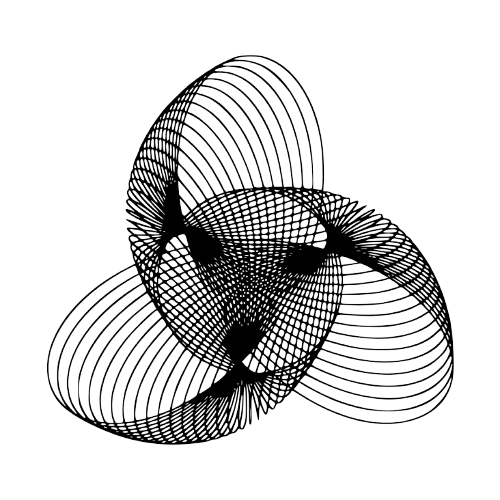
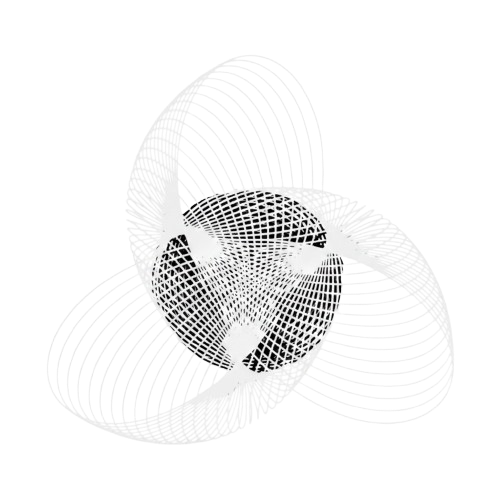
Update website changes

Changed region(s): [[0.09, 0.09, 0.93, 0.9]]

diff --git a/src/sections/Contact.tsx b/src/sections/Contact.tsx
@@ -1,13 +1,21 @@
 import { useEffect, useRef, useState } from 'react';
 import gsap from 'gsap';
 import { ScrollTrigger } from 'gsap/ScrollTrigger';
+import emailjs from '@emailjs/browser';
 
 gsap.registerPlugin(ScrollTrigger);
 
+type Status = 'idle' | 'sending' | 'success' | 'error';
+
 export function Contact() {
   const sectionRef = useRef<HTMLElement>(null);
+  const formRef = useRef<HTMLFormElement>(null);
   const [formData, setFormData] = useState({ name: '', email: '', phone: '', message: '' });
-  const [submitted, setSubmitted] = useState(false);
+  const [submittedName, setSubmittedName] = useState('');
+  const [status, setStatus] = useState<Status>('idle');
+  const [errorMsg, setErrorMsg] = useState('');
+
+  const firstName = (submittedName.trim().split(/\s+/)[0] || '').toLowerCase();
 
   useEffect(() => {
     const section = sectionRef.current;
@@ -23,18 +31,151 @@ export function Contact() {
     return () => ctx.revert();
   }, []);
 
-  const handleSubmit = (e: React.FormEvent) => {
+  const handleSubmit = async (e: React.FormEvent) => {
     e.preventDefault();
-    setSubmitted(true);
-    setTimeout(() => { setFormData({ name: '', email: '', phone: '', message: '' }); setSubmitted(false); }, 3000);
+    if (status === 'sending') return;
+
+    const serviceId = import.meta.env.VITE_EMAILJS_SERVICE_ID as string | undefined;
+    const templateId = import.meta.env.VITE_EMAILJS_TEMPLATE_ID as string | undefined;
+    const publicKey = import.meta.env.VITE_EMAILJS_PUBLIC_KEY as string | undefined;
+
+    if (!serviceId || !templateId || !publicKey || !formRef.current) {
+      setStatus('error');
+      setErrorMsg('Configuration manquante. Veuillez réessayer plus tard.');
+      return;
+    }
+
+    setStatus('sending');
+    setErrorMsg('');
+
+    try {
+      await emailjs.sendForm(serviceId, templateId, formRef.current, { publicKey });
+      setSubmittedName(formData.name);
+      setStatus('success');
+      setFormData({ name: '', email: '', phone: '', message: '' });
+    } catch (err) {
+      setStatus('error');
+      setErrorMsg(
+        err instanceof Error && err.message
+          ? err.message
+          : "Une erreur est survenue. Veuillez réessayer ou nous contacter directement."
+      );
+    }
   };
 
   const handleChange = (e: React.ChangeEvent<HTMLInputElement | HTMLTextAreaElement>) => {
     setFormData(p => ({ ...p, [e.target.name]: e.target.value }));
+    if (status === 'error') setStatus('idle');
+  };
+
+  const resetForm = () => {
+    setSubmittedName('');
+    setStatus('idle');
+    setErrorMsg('');
   };
 
   return (
     <section ref={sectionRef} id="contact" className="relative py-20 md:py-32" style={{ backgroundColor: '#111111' }}>
+      <style>{`
+        .contact-success {
+          display: flex;
+          flex-direction: column;
+          align-items: flex-start;
+          gap: 24px;
+          padding: 8px 0;
+          animation: contact-success-in 600ms cubic-bezier(0.22, 1, 0.36, 1) both;
+        }
+        @keyframes contact-success-in {
+          from { opacity: 0; transform: translateY(16px); }
+          to   { opacity: 1; transform: translateY(0); }
+        }
+
+        .contact-success-icon {
+          width: 72px;
+          height: 72px;
+          display: block;
+        }
+        .contact-success-icon circle {
+          stroke-dasharray: 240;
+          stroke-dashoffset: 240;
+          animation: contact-success-circle 700ms cubic-bezier(0.22, 1, 0.36, 1) 100ms forwards;
+        }
+        .contact-success-icon path {
+          stroke-dasharray: 60;
+          stroke-dashoffset: 60;
+          animation: contact-success-check 500ms cubic-bezier(0.22, 1, 0.36, 1) 700ms forwards;
+        }
+        @keyframes contact-success-circle {
+          to { stroke-dashoffset: 0; }
+        }
+        @keyframes contact-success-check {
+          to { stroke-dashoffset: 0; }
+        }
+
+        .contact-success-title {
+          font-size: clamp(2.5rem, 5vw, 4rem);
+          line-height: 1;
+          font-weight: 400;
+          color: #fff;
+          font-family: Georgia, 'Times New Roman', 'Cormorant Garamond', serif;
+          margin: 0;
+          letter-spacing: -0.01em;
+        }
+        .contact-success-name {
+          font-style: italic;
+          color: #C4591A;
+        }
+
+        .contact-success-body {
+          font-size: 1rem;
+          line-height: 1.6;
+          color: rgba(255, 255, 255, 0.7);
+          max-width: 440px;
+          margin: 0;
+        }
+
+        .contact-success-link {
+          background: transparent;
+          border: 0;
+          padding: 0;
+          margin-top: 8px;
+          font-size: 0.875rem;
+          font-weight: 500;
+          letter-spacing: 0.18em;
+          text-transform: uppercase;
+          color: #C4591A;
+          cursor: pointer;
+          position: relative;
+          line-height: 1.4;
+        }
+        .contact-success-link::after {
+          content: '';
+          position: absolute;
+          left: 0;
+          right: 0;
+          bottom: -4px;
+          height: 1px;
+          background: currentColor;
+          opacity: 0.5;
+          transition: opacity 200ms ease;
+        }
+        .contact-success-link:hover::after {
+          opacity: 1;
+        }
+        .contact-success-link:focus-visible {
+          outline: 2px solid #C4591A;
+          outline-offset: 4px;
+          border-radius: 2px;
+        }
+
+        @media (prefers-reduced-motion: reduce) {
+          .contact-success,
+          .contact-success-icon circle,
+          .contact-success-icon path { animation: none; }
+          .contact-success-icon circle { stroke-dashoffset: 0; }
+          .contact-success-icon path { stroke-dashoffset: 0; }
+        }
+      `}</style>
       <div className="container-site">
         {/* Giant title */}
         <div className="contact-title mb-16 md:mb-24 overflow-hidden">
@@ -44,8 +185,52 @@ export function Contact() {
         </div>
 
         <div className="grid grid-cols-1 lg:grid-cols-2 gap-16 lg:gap-24">
-          {/* Form */}
-          <form className="contact-form space-y-6" onSubmit={handleSubmit}>
+          {/* Form / Success card */}
+          {status === 'success' ? (
+            <div className="contact-form contact-success" role="status" aria-live="polite">
+              <svg
+                className="contact-success-icon"
+                viewBox="0 0 80 80"
+                xmlns="http://www.w3.org/2000/svg"
+                aria-hidden="true"
+              >
+                <circle cx="40" cy="40" r="38" fill="none" stroke="#C4591A" strokeWidth="1" />
+                <path
+                  d="M28 41 L37 50 L54 32"
+                  fill="none"
+                  stroke="#C4591A"
+                  strokeWidth="2"
+                  strokeLinecap="round"
+                  strokeLinejoin="round"
+                />
+              </svg>
+
+              <h3 className="contact-success-title">
+                Merci{firstName ? ',' : ''}
+                {firstName && (
+                  <>
+                    {' '}
+                    <span className="contact-success-name">{firstName}</span>
+                  </>
+                )}
+                .
+              </h3>
+
+              <p className="contact-success-body">
+                Votre demande a bien été reçue. Un membre de l'équipe DEV-MAROC
+                vous contactera dans les prochaines vingt-quatre heures.
+              </p>
+
+              <button
+                type="button"
+                onClick={resetForm}
+                className="contact-success-link"
+              >
+                ENVOYER UNE AUTRE DEMANDE
+              </button>
+            </div>
+          ) : (
+          <form ref={formRef} className="contact-form space-y-6" onSubmit={handleSubmit} noValidate>
             <div>
               <label className="text-label block mb-3" style={{ color: 'rgba(255,255,255,0.5)' }}>Votre nom *</label>
               <input type="text" name="name" value={formData.name} onChange={handleChange} required className="input-masolide" placeholder="Ex: Jean Dupont" />
@@ -62,15 +247,24 @@ export function Contact() {
               <label className="text-label block mb-3" style={{ color: 'rgba(255,255,255,0.5)' }}>Votre message *</label>
               <textarea name="message" value={formData.message} onChange={handleChange} required rows={5} className="input-masolide resize-none" placeholder="Bonjour, j'aimerais discuter de la création d'un site web pour mon entreprise..." />
             </div>
-            <button
-              type="submit"
-              disabled={submitted}
-              className="px-8 py-3 rounded-full text-sm font-medium tracking-wide transition-all duration-300 hover:opacity-90 disabled:opacity-50"
-              style={{ backgroundColor: '#C4591A', color: '#fff' }}
-            >
-              {submitted ? 'MESSAGE ENVOYÉ ✓' : 'CLIQUEZ-ICI'}
-            </button>
+            <div className="flex flex-col gap-3">
+              <button
+                type="submit"
+                disabled={status === 'sending'}
+                className="px-8 py-3 rounded-full text-sm font-medium tracking-wide transition-all duration-300 hover:opacity-90 disabled:opacity-50 disabled:cursor-not-allowed self-start"
+                style={{ backgroundColor: '#C4591A', color: '#fff' }}
+              >
+                {status === 'sending' ? 'ENVOI EN COURS...' : 'CLIQUEZ-ICI'}
+              </button>
+
+              {status === 'error' && (
+                <p className="text-sm" style={{ color: '#ff8170' }}>
+                  {errorMsg}
+                </p>
+              )}
+            </div>
           </form>
+          )}
 
           {/* Contact info */}
           <div className="contact-info">

diff --git a/src/components/Preloader.tsx b/src/components/Preloader.tsx
@@ -155,6 +155,15 @@ export function Preloader() {
             transform 0.4s ease-out;
         }
 
+        .preloader-mark {
+          width: clamp(72px, 10vw, 120px);
+          height: auto;
+          display: block;
+          margin-bottom: 24px;
+          user-select: none;
+          -webkit-user-drag: none;
+        }
+
         .preloader-label {
           font-family: 'Inter', system-ui, sans-serif;
           font-size: 11px;
@@ -174,10 +183,19 @@ export function Preloader() {
           color: #f5f0e8;
           white-space: nowrap;
         }
-        .preloader-dot { color: #e85d26; }
+        .preloader-dot {
+          display: inline-block;
+          width: 0.18em;
+          height: 0.18em;
+          background: #e85d26;
+          border-radius: 50%;
+          vertical-align: baseline;
+          margin-left: 0.04em;
+        }
 
         @media (max-width: 767px) {
           .preloader-label { font-size: 10px; margin-bottom: 22px; }
+          .preloader-mark { margin-bottom: 18px; }
         }
 
         .preloader-bar-track {
@@ -217,9 +235,15 @@ export function Preloader() {
       <div className={`preloader-curtain bottom ${curtainsMoved ? 'moved' : ''}`} />
 
       <div className={`preloader-content ${contentVisible ? 'visible' : ''}`}>
+        <img
+          src="/DEVWEB-removebg-preview.png"
+          alt=""
+          className="preloader-mark"
+          draggable={false}
+        />
         <div className="preloader-label">BÂTISSEURS DU DIGITAL</div>
         <div className="preloader-logo">
-          DEV-MAROC<span className="preloader-dot">.</span>
+          DEV-MAROC<span className="preloader-dot" aria-hidden="true" />
         </div>
         <div className="preloader-bar-track">
           <div className="preloader-bar-fill" />

diff --git a/src/sections/Footer.tsx b/src/sections/Footer.tsx
@@ -9,6 +9,13 @@ export function Footer() {
         <div className="grid grid-cols-1 md:grid-cols-3 gap-12 lg:gap-16 mb-16">
           {/* Logo */}
           <div>
+            <img
+              src="/DEVWEB-removebg-preview.png"
+              alt=""
+              className="block mb-4"
+              style={{ width: '88px', height: 'auto' }}
+              draggable={false}
+            />
             <span className="font-display text-white block mb-4" style={{ fontSize: '2rem' }}>DEV-MAROC</span>
             <p className="text-sm" style={{ color: 'rgba(255,255,255,0.4)' }}>
               © 2026 DEV-MAROC<br />Tous Droits Réservés